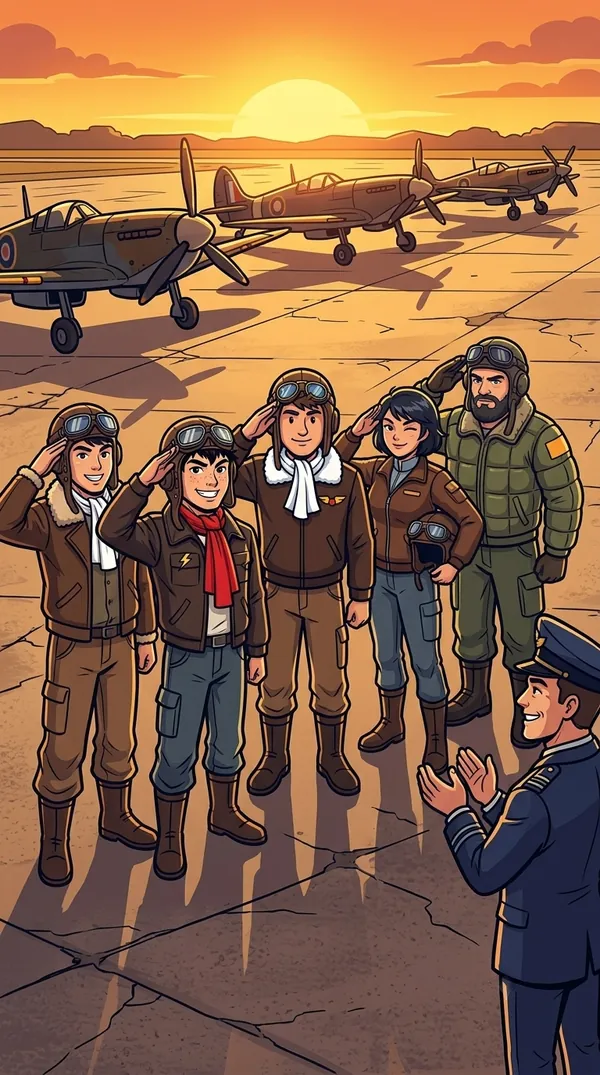
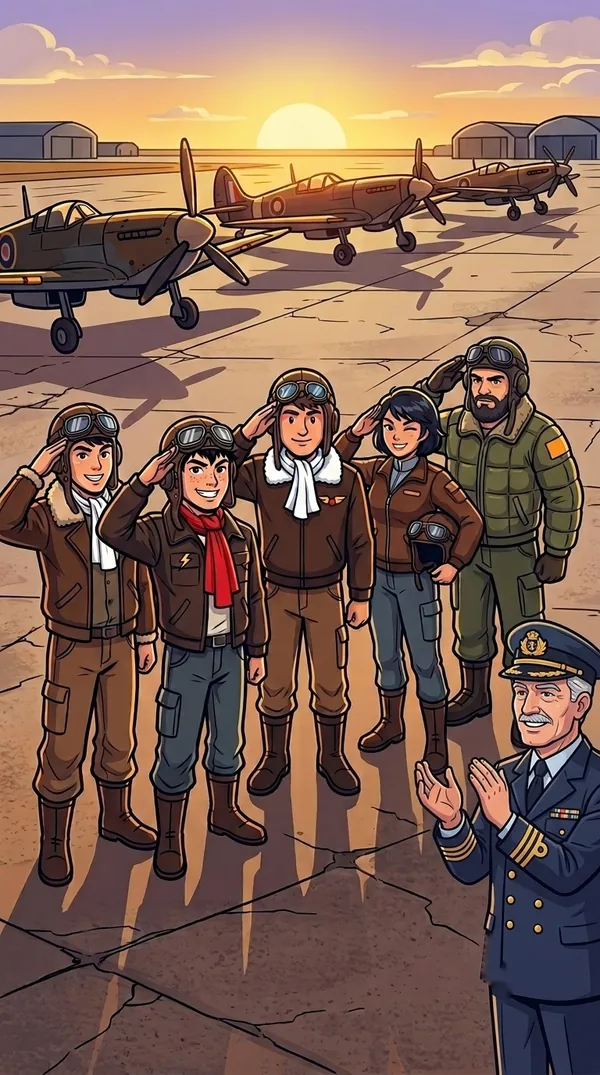
SKYFANG build 1017-15: 엔딩 E4 사령관 얼굴 수정본 적용
Claude-Session: https://claude.ai/code/session_01F9xhoKqy2HnADQtwDdhFQ2

diff --git a/index.html b/index.html
@@ -2785,7 +2785,7 @@ function unlockAudio(){Snd.init();const ac=Snd.ac;if(!ac)return;
 document.addEventListener('click',e=>{const b=e.target.closest&&e.target.closest('button');if(b&&b.id!=='loopBtn'&&b.id!=='bombBtn')SFX.play('click',{vol:.3});},true);
 document.addEventListener('visibilitychange',()=>{if(!document.hidden&&Snd.ac&&state!=='pause'&&Snd.ac.state==='suspended'){const r=Snd.ac.resume();if(r&&r.catch)r.catch(()=>{});}});
 function updateAudioStatus(){const st=Snd.ac?Snd.ac.state:'none';
-  const t=(st==='running'?'소리 상태: 정상':st==='none'?'소리 상태: 아직 켜지지 않음 (화면을 눌러주세요)':'소리 상태: 대기 중 ('+st+')')+' · 효과음 '+(SFX.ready?'준비됨('+SFX.samples+')':'준비 중')+' · 빌드 1017-14';
+  const t=(st==='running'?'소리 상태: 정상':st==='none'?'소리 상태: 아직 켜지지 않음 (화면을 눌러주세요)':'소리 상태: 대기 중 ('+st+')')+' · 효과음 '+(SFX.ready?'준비됨('+SFX.samples+')':'준비 중')+' · 빌드 1017-15';
   ['audioStat','audioStat0'].forEach(id=>{const el=$(id);if(el)el.textContent=t;});}
 updateAudioStatus();
[1 lines of base64/hex data omitted]

diff --git a/README.md b/README.md
@@ -3,4 +3,4 @@
 1942 스타일 종스크롤 슈팅 브라우저 게임.
 
 - 플레이: https://leetiger12a-spec.github.io/Skyfang/
-- 현재 빌드: 1017-14
+- 현재 빌드: 1017-15
